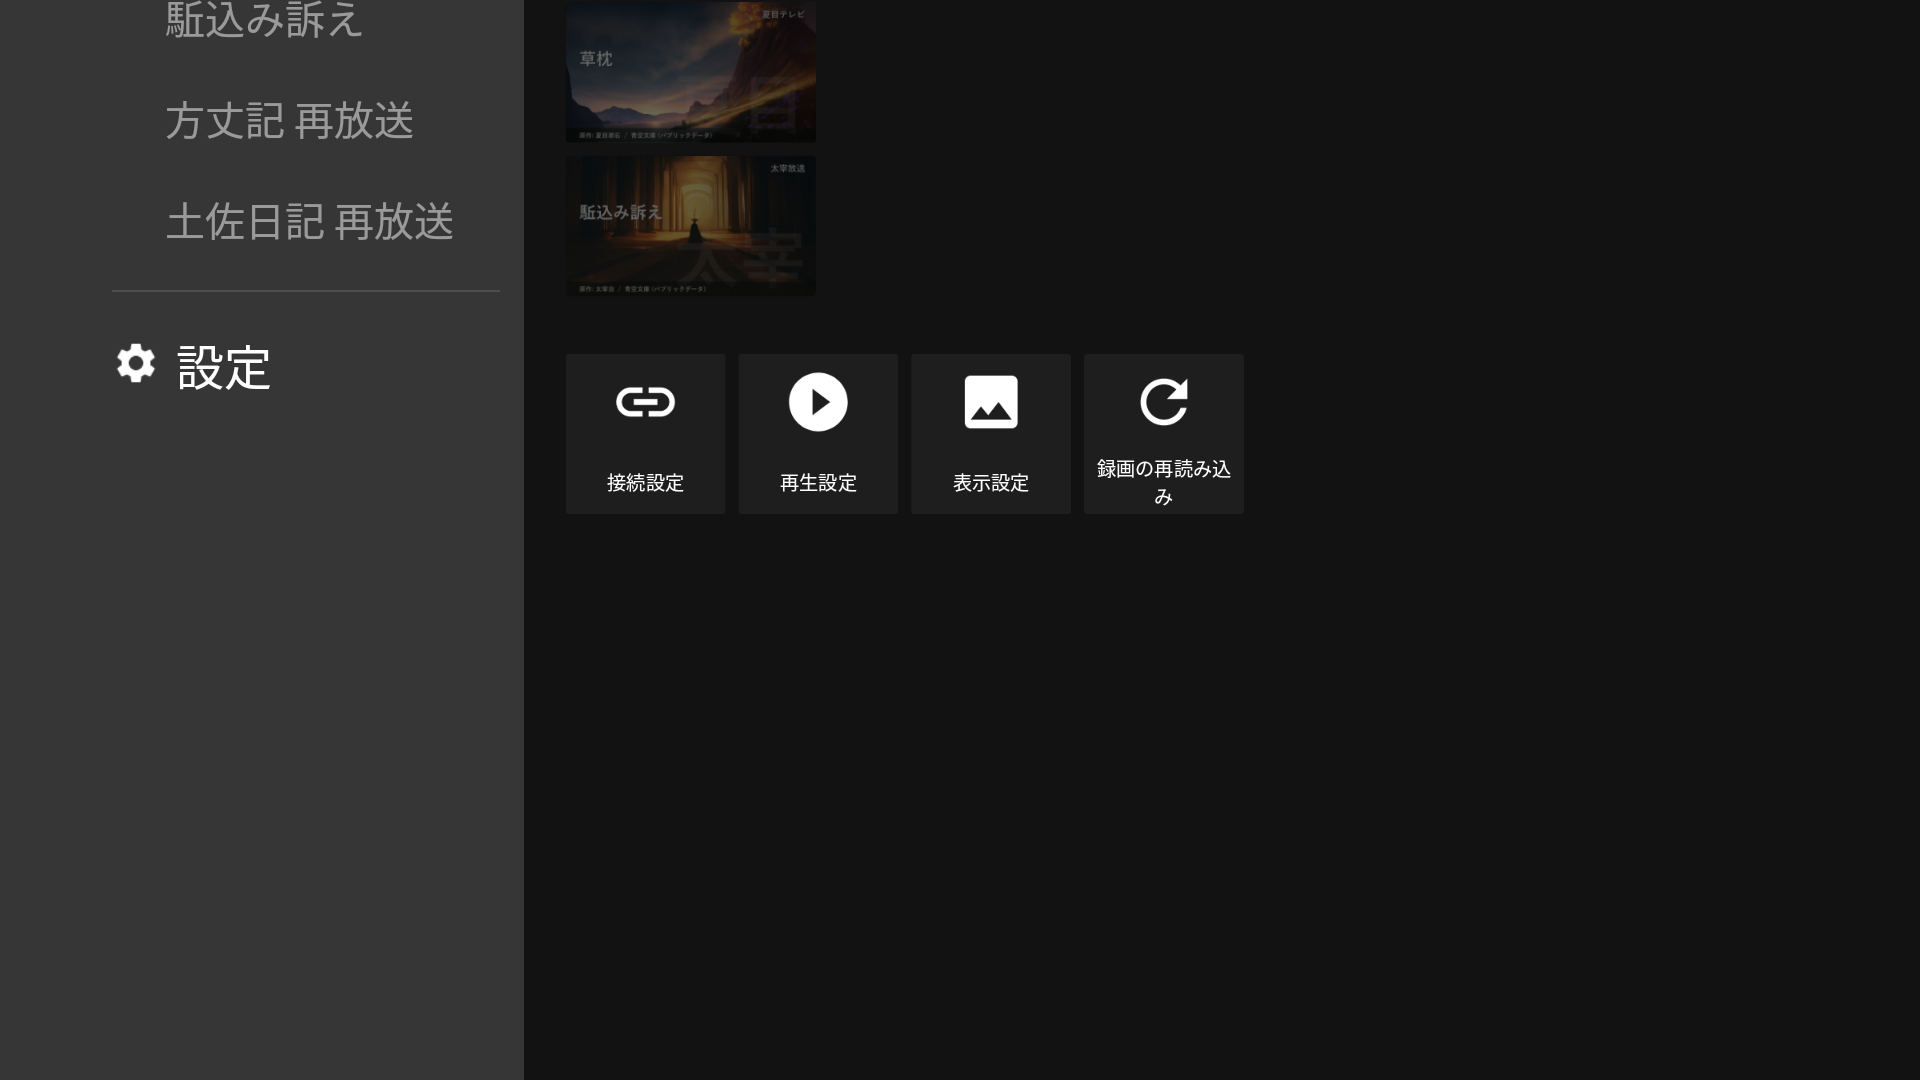
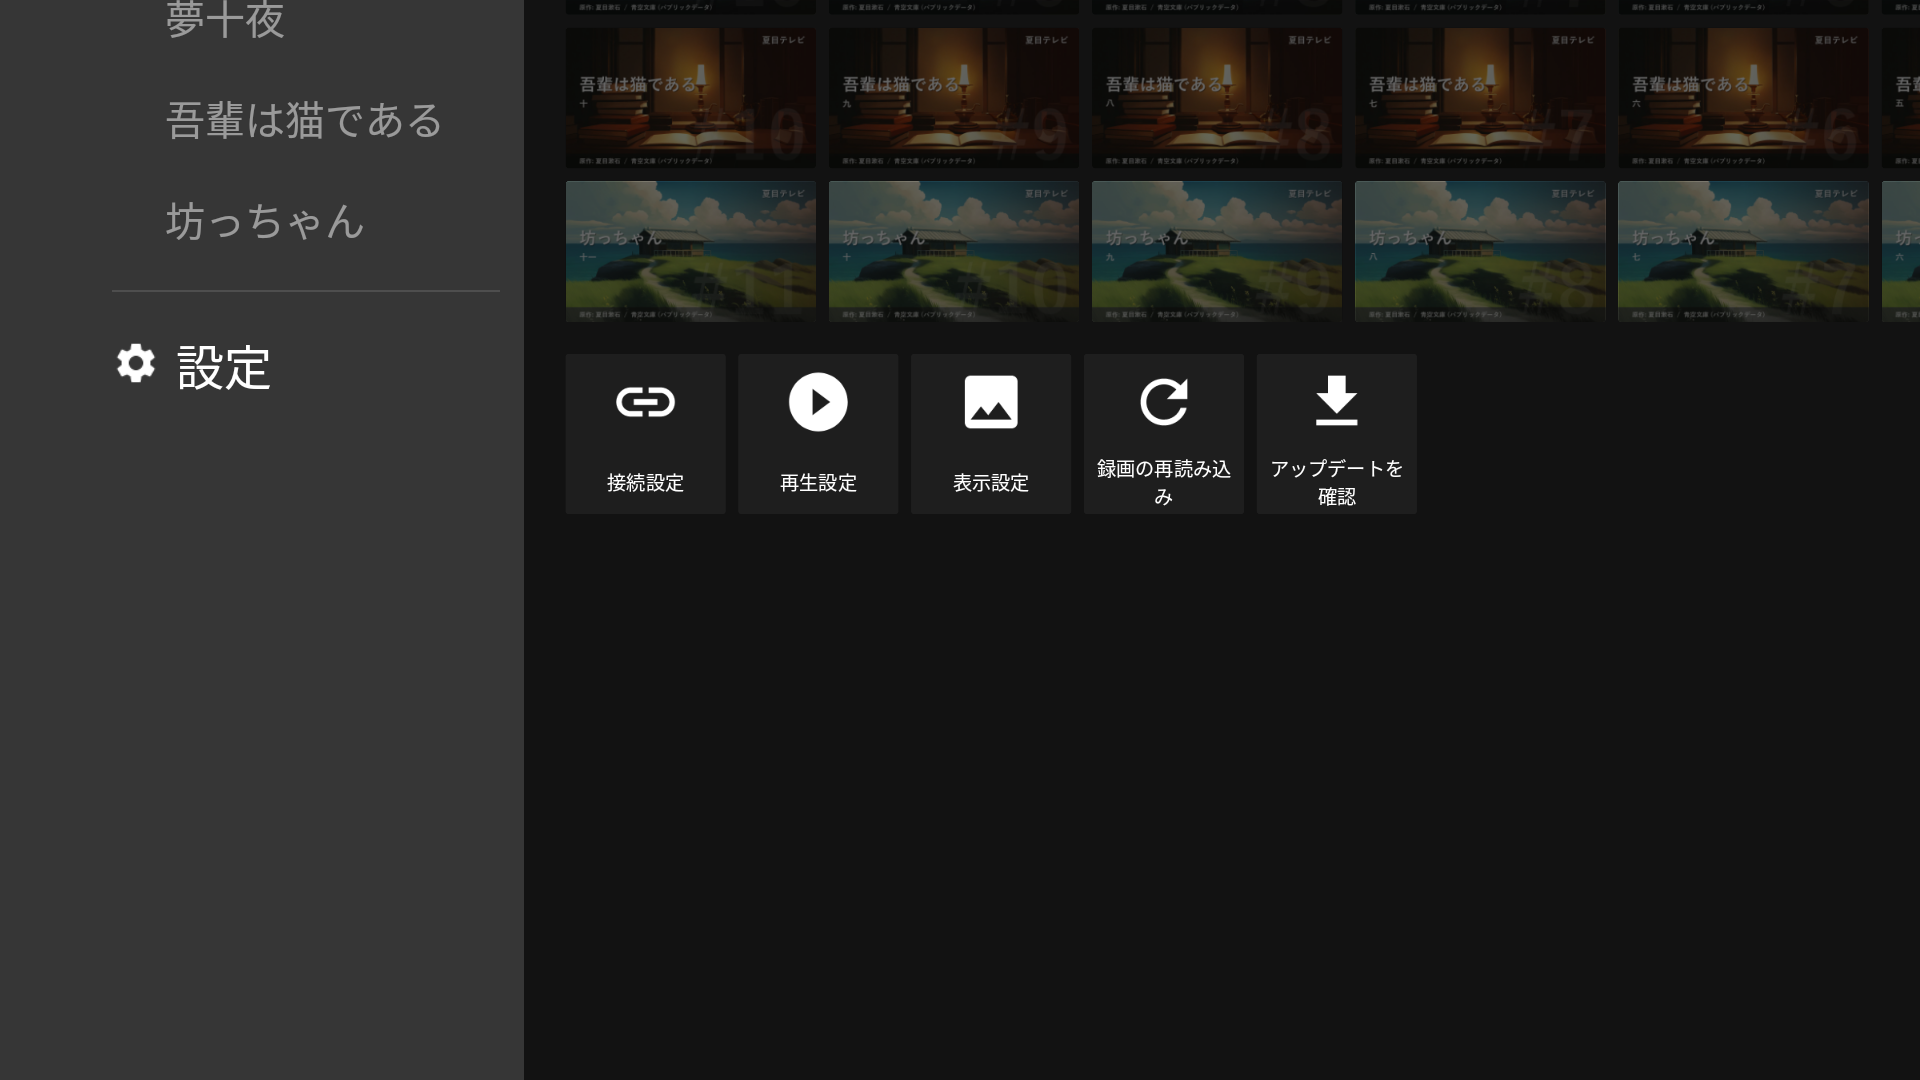
README とマニュアルにアップデート手順を追加
README には「アップデート方法」の節を、マニュアルには 7 章「アプリをアップデートする」を
追加した。設定行のカードが5枚になったので 1.2 節も更新し、スクリーンショットを撮り直した。

diff --git a/README.md b/README.md
@@ -47,6 +47,19 @@
 
 [Releases](https://github.com/daig0rian/epcltvapp/releases) の最新 `app-release.apk` をadbコマンドなどで TV に送信しインストール。
 
+## アップデート方法
+
+一度インストールしたあとは、アプリの中から更新できます。
+
+1. メイン画面の「設定」行にある **アップデートを確認** を選ぶ。
+2. GitHub へ接続してよいか確認が出るので **接続して確認** を選ぶ。
+3. 新しいバージョンがあればリリースノートが表示される。**更新する** を選ぶとダウンロードが始まる。
+4. ダウンロードが終わると端末のインストール確認画面が出るので、案内に従ってインストールする。
+
+初回は「不明なアプリのインストール」の許可を求められることがあります。表示される案内から設定を開き、このアプリを許可してください。
+
+GitHub へ接続するのは、この操作をして確認画面で承諾したときだけです。起動時やバックグラウンドで自動的に確認することはありません。裏を返すと新しいバージョンが出たことに自動で気づく仕組みはないので、ときどき自分で確認してください。
+
 ## ストアへの公開状況
 - 2021/06/10 Google Play Store での公開審査完了（3日間・審査1回目でパス）
 - 2021/06/11 Android TV 端末への配信オプトイン審査完了（操作から1日未満で完了）

diff --git a/WIP.md b/WIP.md
@@ -43,4 +43,6 @@
   - 3. release キーストアがあればインストール成功まで
   - 4. `"1.37"` に戻して「最新です」表示
   - 5. Fire TV / Google TV Streamer の両方、権限画面の有無
+- [x] README / MANUAL の更新、スクリーンショット撮影（`update-available.png` を除く）
+- [ ] `update-available.png`（新バージョンが見つかったときの表示）の撮影 — versionName 1.36 のビルドが要る
 - [ ] `WIP.md` を削除してコミット → PR 作成
